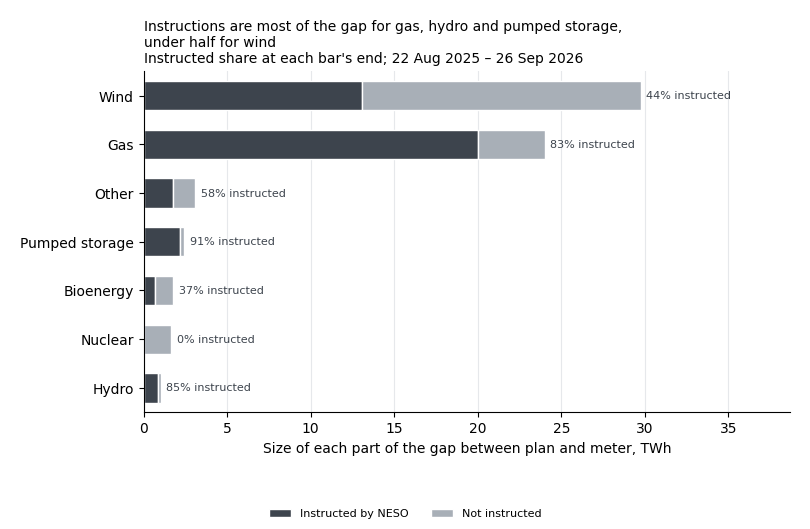
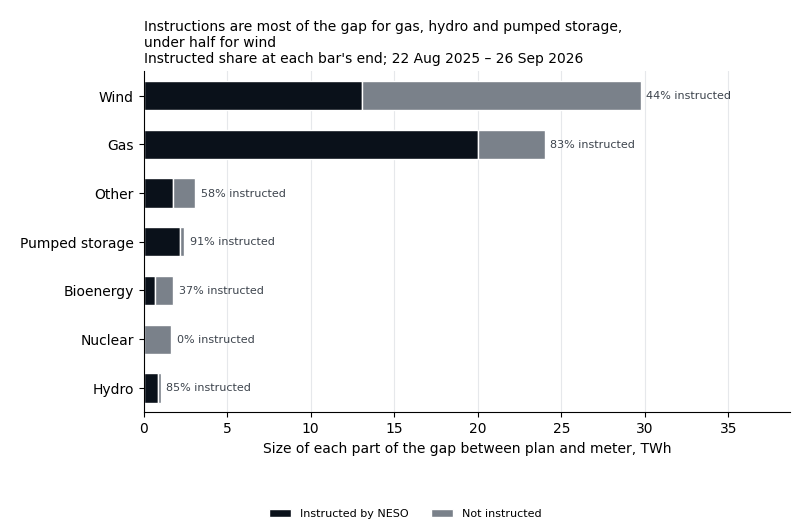
Results page: ranges beside Q12 and Q28, Q24 in settlement months, greys that reach 3:1
Review R19.
- Q12's answer carries Q3's date range beside its shares ("in those
  dates"); Q28's answer carries its own range.
- Q24 says "settlement months Aug 2025 - Sep 2026" in its finding, answer,
  caption, reading line and PNG; the caption no longer claims days.
- Split greys: every step, the soft one too, reaches 3:1 against the page
  in both modes, with a clear step between neighbours.
- Interconnectors move from a grey to a warm taupe, so no grey on the page
  has two meanings.
- Tests: Q3, Q5 and Q12 ranges must move when their saved outputs' dates
  move a day; Q24's fixture adds August 2025, so a typed "Sep 2026" fails;
  Q22's sentence is checked against Q22's own rule; split greys checked for
  3:1 against the page, a step between neighbours and no shared meaning.

diff --git a/site/index.html b/site/index.html
@@ -272,7 +272,7 @@
     <ul class="findings">
       <li><strong>Wind strays furthest from its own plan.</strong> With no NESO instruction in force, the median wind farm missed its plan by more than the median unit of any other type in every whole month from September 2025 to August 2026. <a href="#q23">Q23</a></li>
       <li><strong>Most under-delivery comes with no published outage.</strong> About a quarter (24%, 22 Aug 2025 – 27 Sep 2026) came with one; for wind, about a tenth. <a href="#q5">Q5</a></li>
-      <li><strong>NESO flags almost all the energy its instructions move at wind farms as managing the network:</strong> 97% (Aug 2025 – Sep 2026). <a href="#q24">Q24</a></li>
+      <li><strong>NESO flags almost all the energy its instructions move at wind farms as managing the network:</strong> 97% (settlement months Aug 2025 – Sep 2026). <a href="#q24">Q24</a></li>
       <li><strong>The carbon forecast's misses barely track any of it.</strong> In the fifth of half-hours with the biggest carbon misses (22 Aug 2025 – 16 Aug 2026), under-delivery was only 5% larger than in the fifth with the smallest; the test needed 25%. Misses in NESO's demand and wind forecasts show only weak links too. <a href="#q28">Q28</a>, <a href="#q8">Q8</a>, <a href="#q30">Q30</a></li>
     </ul>
     <p class="caveat">The carbon forecast tested is the stored forecast (see the words below), not a day-ahead forecast. Q4 repeats the test on GridSkew's own archive of every forecast, where the timing is known.</p>
@@ -434,7 +434,7 @@
 
   <article id="q12">
     <h3>How much of the gap between plan and meter comes from NESO's instructions? <span class="tag">Q12</span></h3>
-    <p class="answer">Most of it for gas, hydro and pumped storage: <strong>83 to 91%</strong>, counting the instructed and the not-instructed part each by its size. For wind, instructions are 44%, so the part NESO did not instruct is larger. NESO never instructed a nuclear unit in this period.</p>
+    <p class="answer">Most of it for gas, hydro and pumped storage (22 Aug 2025 – 26 Sep 2026): <strong>83 to 91%</strong>, counting the instructed and the not-instructed part each by its size. For wind, instructions are 44%, so the part NESO did not instruct is larger. NESO never instructed a nuclear unit in those dates.</p>
     <figure>
       <div class="chart" id="q12-chart"></div>
       <figcaption>22 August 2025 to 26 September 2026. Interconnectors (never instructed) and coal (closed units) are left out. Source: Elexon BMRS.</figcaption>
@@ -519,10 +519,10 @@
 
   <article id="q24">
     <h3>How much of the energy NESO's instructions move does it flag as managing the network? <span class="tag">Q24</span></h3>
-    <p class="answer">Almost all of it for wind (<strong>97%</strong> of 13.4 TWh, Aug 2025 – Sep 2026) and hydro (93%), and 70% for pumped storage. The flag marks an instruction as possibly for network reasons, such as relieving a bottleneck, rather than balancing supply and demand. For bioenergy, the other group (mostly batteries) and gas it is 24%, 31% and 35%.</p>
+    <p class="answer">Almost all of it for wind (<strong>97%</strong> of 13.4 TWh, settlement months Aug 2025 – Sep 2026) and hydro (93%), and 70% for pumped storage. The flag marks an instruction as possibly for network reasons, such as relieving a bottleneck, rather than balancing supply and demand. For bioenergy, the other group (mostly batteries) and gas it is 24%, 31% and 35%.</p>
     <figure>
       <div class="chart" id="q24-chart"></div>
-      <figcaption>22 August 2025 to 30 September 2026. Units with a published fuel type only: they carry 42.5% of all instructions. Coal and nuclear units had none. Source: Elexon BMRS.</figcaption>
+      <figcaption>Settlement months Aug 2025 – Sep 2026. Units with a published fuel type only: they carry 42.5% of all instructions. Coal and nuclear units had none. Source: Elexon BMRS.</figcaption>
     </figure>
     <details class="method">
       <summary>How we measured it</summary>
@@ -606,7 +606,7 @@
 
   <article id="q28">
     <h3>When NESO's stored carbon forecast misses by more, do units fall further short of their plans? <span class="tag">Q28</span></h3>
-    <p class="answer">No. The fifth of half-hours with the biggest misses carried <strong>5% more</strong> under-delivery (90% range 3% to 8%) than the fifth with the smallest: a small but steady rise, far short of the 25% needed.</p>
+    <p class="answer">No. Over 22 Aug 2025 – 16 Aug 2026, the fifth of half-hours with the biggest misses carried <strong>5% more</strong> under-delivery (90% range 3% to 8%) than the fifth with the smallest: a small but steady rise, far short of the 25% needed.</p>
     <figure>
       <div class="chart" id="q28-chart"></div>
       <figcaption>17,278 half-hours, all units together. Mean under-delivery per half-hour, 22 Aug 2025 – 16 Aug 2026: 762 MWh in the smallest-miss fifth, 801 MWh in the largest. Source: Elexon BMRS and NESO Carbon Intensity API.</figcaption>
@@ -825,7 +825,7 @@
 
   // One colour per fuel group on every chart, light and dark, in the specs'
   // fuel-group order: wind, other, bioenergy, nuclear, hydro, gas, pumped
-  // storage, then interconnectors in a neutral grey. The specs name the
+  // storage, then interconnectors in a warm taupe that no grey shares. The specs name the
   // scheme; the page picks the steps for its colour mode.
   const fuelGroupColours = [
     ["#eb6834", "#d95926"],
@@ -835,7 +835,7 @@
     ["#2a78d6", "#3987e5"],
     ["#e87ba4", "#d55181"],
     ["#008300", "#008300"],
-    ["#8c959f", "#8c959f"],
+    ["#9a7f63", "#9a7f63"],
   ];
 
   function fuelGroupScheme() {
@@ -851,9 +851,9 @@
   // The greys that split a bar into parts, strongest against the page first,
   // light and dark. In dark mode the strong grey is the lightest.
   const splitGreys = {
-    strong: ["#3d444d", "#d0d7de"],
-    mid: ["#6e7781", "#8c959f"],
-    soft: ["#a8afb7", "#4b535d"],
+    strong: ["#0a111a", "#dfe6ef"],
+    mid: ["#3a414a", "#a6adb6"],
+    soft: ["#7a818a", "#5b626b"],
   };
 
   function splitScheme(steps) {

diff --git a/tests/test_readme_charts.py b/tests/test_readme_charts.py
@@ -179,6 +179,10 @@ ROWS_ADDED_TO_FIXTURES = {
     "q5_shortfall_with_known_outage.csv": [
         "2,interconnector,none,154,51.5,100.0,2025-08-22,2026-09-27,",
     ],
+    # A first month, so Q24's range is a span the chart works out.
+    "q24_system_action_share.csv": [
+        "1,wind,2025-08-01,stretches with a volume,100,300,500.0,450.0,90.0,120.0,80.0",
+    ],
     "q30_wind_vs_carbon_error.csv": [
         '3,"rho_signed (secondary): wind error, outturn with cohort curtailment '
         'add-back, with error_api_final; expected direction negative",,500,,,,'
@@ -1317,14 +1321,15 @@ def test_both_q29_charts_share_one_diverging_pair_no_fuel_group_wears(written):
 def test_each_energy_axis_and_title_carries_its_saved_output_range(written):
     # Q3's fixture covers 22 August 2025 to 26 September 2026, and Q12 reads
     # Q3's half-hours; Q5's rows run 22 August 2025 to 27 September 2026;
-    # Q24's fixture holds September 2026 only; Q2's week is its rule's.
+    # Q24's fixture holds August 2025 and September 2026, as settlement
+    # months; Q2's week is its rule's.
     q3 = "22 Aug 2025 – 26 Sep 2026"
     assert q3 in x_axis_titles(written, "q3_gap_from_plan_by_fuel_group.vl.json")
     assert q3 in x_axis_titles(written, "q12_instructed_share_by_fuel_group.vl.json")
     assert "22 Aug 2025 – 27 Sep 2026" in x_axis_titles(
         written, "q5_under_delivery_by_outage_notice.vl.json"
     )
-    assert "energy in TWh, Sep 2026." in reading_line(
+    assert "energy in TWh, settlement months Aug 2025 – Sep 2026." in reading_line(
         written, "q24_flagged_share_by_fuel_group.vl.json"
     )
     assert (
@@ -1337,15 +1342,48 @@ def test_each_energy_axis_and_title_carries_its_saved_output_range(written):
     )
 
 
-def test_q2s_week_is_its_registered_population():
-    # Q2's outputs hold no dates, so its week is the rule's.
+def with_dates_moved(path, moves):
+    text = path.read_text(encoding="utf-8")
+    for before, after in moves.items():
+        text = text.replace(before, after)
+    path.write_text(text, encoding="utf-8")
+
+
+def test_each_energy_range_moves_with_its_saved_outputs_dates(tmp_path):
+    # The fixtures hold the real outputs' dates, so a range typed in would
+    # pass the test above; here each output's dates move a day, and every
+    # range must move with them (Q12's with Q3's rows).
+    saved = saved_outputs_folder(tmp_path / "saved")
+    with_dates_moved(
+        saved / "q3_metered_vs_notified.csv",
+        {"2025-08-22": "2025-08-23", "2026-09-26": "2026-09-25"},
+    )
+    with_dates_moved(
+        saved / "q5_shortfall_with_known_outage.csv",
+        {"2025-08-22": "2025-08-21", "2026-09-27": "2026-09-28"},
+    )
+    write_charts(saved, tmp_path / "out")
+    written_folder = tmp_path / "out"
+
+    q3 = "23 Aug 2025 – 25 Sep 2026"
+    assert q3 in x_axis_titles(written_folder, "q3_gap_from_plan_by_fuel_group.vl.json")
+    assert q3 in x_axis_titles(
+        written_folder, "q12_instructed_share_by_fuel_group.vl.json"
+    )
+    assert "21 Aug 2025 – 28 Sep 2026" in x_axis_titles(
+        written_folder, "q5_under_delivery_by_outage_notice.vl.json"
+    )
+
+
+def test_q2s_week_is_its_registered_population_and_q22s():
+    # Q2's and Q22's outputs hold no dates, so the week is their rules'.
     first_day, rest = Q2_WEEK.split("–")
     last_day, month, year = rest.split(" ")
-    rule = f"Settlement dates {first_day} to {last_day} {FULL_MONTHS[month]} {year}"
+    dates = f"settlement dates {first_day} to {last_day} {FULL_MONTHS[month]} {year}"
+    questions = QUESTIONS.read_text(encoding="utf-8")
 
-    assert f"**Population.** {rule}, every BM unit" in QUESTIONS.read_text(
-        encoding="utf-8"
-    )
+    assert f"**Population.** S{dates[1:]}, every BM unit" in questions
+    assert f"run of {dates}, side by side" in questions
 
 
 def test_the_page_states_each_energy_figure_beside_its_saved_output_range():
@@ -1356,12 +1394,16 @@ def test_the_page_states_each_energy_figure_beside_its_saved_output_range():
     page = PAGE.read_text(encoding="utf-8")
     expected = [
         f"About a quarter (24%, {q5}) came with one",
-        f"managing the network:</strong> 97% ({q24}).",
+        f"managing the network:</strong> 97% (settlement months {q24}).",
         f"the biggest carbon misses ({q28}), under-delivery",
         f"Slightly less, with wide spreads ({q3}).",
         f"0.03 MWh per unit per half-hour (bioenergy, {Q2_WEEK}).",
         f"of under-delivery ({q5}) came with a published outage",
-        f"of 13.4 TWh, {q24})",
+        f"of 13.4 TWh, settlement months {q24})",
+        f"<figcaption>Settlement months {q24}. Units with",
+        f"Most of it for gas, hydro and pumped storage ({q3}): <strong>83 to 91%",
+        "NESO never instructed a nuclear unit in those dates.",
+        f"No. Over {q28}, the fifth of half-hours with the biggest misses",
         f"Mean under-delivery per half-hour, {q28}: 762 MWh",
         f"Materially: for settlement dates {Q2_WEEK}, 3.4%",
     ]
@@ -1496,6 +1538,50 @@ def test_the_page_registers_the_split_greys_for_each_mode():
         'splitScheme(["strong", "mid", "soft"]));' in page
     )
     assert page.count("scheme.push(prefersDark ? dark : light);") == 2
+
+
+def channel_luminance(channel_hex):
+    channel = int(channel_hex, 16) / 255
+    if channel <= 0.04045:
+        return channel / 12.92
+    return ((channel + 0.055) / 1.055) ** 2.4
+
+
+def relative_luminance(colour):
+    red = channel_luminance(colour[1:3])
+    green = channel_luminance(colour[3:5])
+    blue = channel_luminance(colour[5:7])
+    return 0.2126 * red + 0.7152 * green + 0.0722 * blue
+
+
+def contrast_ratio(first, second):
+    lighter, darker = sorted(
+        [relative_luminance(first), relative_luminance(second)], reverse=True
+    )
+    return (lighter + 0.05) / (darker + 0.05)
+
+
+def test_every_split_grey_stands_out_from_the_page_and_its_neighbour():
+    # WCAG's 3:1 for graphics, in both modes, for the soft grey too; each
+    # grey apart from the next one down; and no split grey also means
+    # interconnectors, a neutral result or a comparison.
+    page = PAGE.read_text(encoding="utf-8")
+    light_page, dark_page = re.findall(r"--surface: (#[0-9a-f]{6});", page)
+    steps = ["strong", "mid", "soft"]
+
+    for mode, surface in enumerate([light_page, dark_page]):
+        greys = []
+        for step in steps:
+            greys.append(SPLIT_GREYS[step][mode])
+        for grey in greys:
+            assert contrast_ratio(grey, surface) >= 3.0
+        for upper, lower in zip(greys[:-1], greys[1:], strict=True):
+            assert contrast_ratio(upper, lower) >= 1.5
+    other_greys = set(FUEL_GROUP_COLOURS["interconnector"])
+    other_greys.update([NEUTRAL_MARK_COLOUR, COMPARISON_COLOUR])
+    for light, dark in SPLIT_GREYS.values():
+        assert light not in other_greys
+        assert dark not in other_greys
 
 
 def test_every_chart_shows_fuel_groups_by_their_display_names_only(written):

diff --git a/scripts/readme_charts.py b/scripts/readme_charts.py
@@ -180,8 +180,9 @@ FUEL_GROUP_COLOURS = {
     "hydro": ("#2a78d6", "#3987e5"),
     "gas_turbine": ("#e87ba4", "#d55181"),
     "pumped_storage": ("#008300", "#008300"),
-    # Links, not a fuel: a neutral grey, and left out of the palette checks.
-    "interconnector": ("#8c959f", "#8c959f"),
+    # Links, not a fuel: a warm taupe, so it reads as neither a fuel hue nor
+    # one of the greys that split a bar; left out of the palette checks.
+    "interconnector": ("#9a7f63", "#9a7f63"),
 }
 
 # Q3's key.
@@ -329,7 +330,7 @@ Q23_MONTHLY_READING = (
 Q24_READING = (
     "Each bar is one fuel group's instructed energy as 100%, split into the "
     "share NESO flagged as managing the network and the rest. Under each name "
-    "is that energy in TWh, {months}."
+    "is that energy in TWh, settlement months {months}."
 )
 Q25_READING = (
     "Each row is a fuel group. The dot is the share of its instructions "
@@ -411,13 +412,14 @@ LOG_SHARE_TICKS = [0.01, 0.1, 1, 10, 100]
 # The split greys, strongest against the page first, light and dark: the
 # instructed, flagged or planned part takes the strong grey, unplanned the
 # mid, the rest the soft. In dark mode the strong grey is the lightest, so it
-# still stands out most. Neighbouring greys differ by about 2:1 in contrast,
-# so a 2 px gap in the page's own colour separates the parts. The page
+# still stands out most. Every grey, the soft one too, reaches 3:1 against
+# the page; neighbouring greys differ by about 2:1 or more, and a 2 px gap
+# in the page's own colour separates the parts. The page
 # registers each set for its colour mode as a scheme the specs name.
 SPLIT_GREYS = {
-    "strong": ("#3d444d", "#d0d7de"),
-    "mid": ("#6e7781", "#8c959f"),
-    "soft": ("#a8afb7", "#4b535d"),
+    "strong": ("#0a111a", "#dfe6ef"),
+    "mid": ("#3a414a", "#a6adb6"),
+    "soft": ("#7a818a", "#5b626b"),
 }
 SPLIT_TWO_SCHEME = "gridskew-split-two"
 SPLIT_THREE_SCHEME = "gridskew-split-three"
@@ -2045,7 +2047,7 @@ def write_q24_chart(rows, output):
     axes.set_xlim(0, 100)
     axes.set_xticks(SHARE_TICKS)
     x_label(axes, Q24_AXIS_TITLE)
-    png_title(axes, Q24_TITLE, [f"Energy under each name, {months}"])
+    png_title(axes, Q24_TITLE, [f"Energy under each name, settlement months {months}"])
     save_figure(figure, output / f"{name}.png", legend_handles(axes))
 
     data = csv_data(
